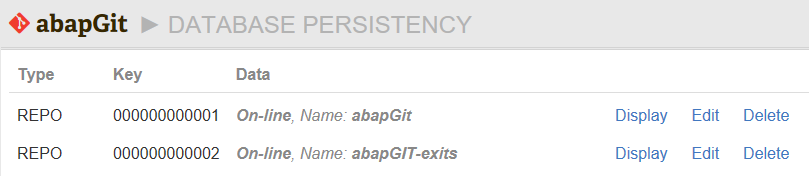
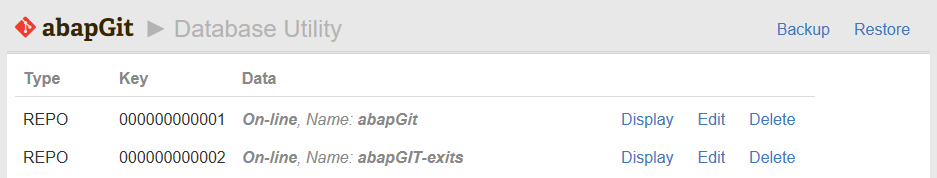
Update docs for DB Utility (#4457)
* Update docs for DB Utility

* Update

diff --git a/docs/ref-database-util.md b/docs/ref-database-util.md
@@ -1,10 +1,10 @@
 ---
-title: Database Util
+title: Database Utility
 category: reference
 order: 99
 ---
 
-`Database Util` is a tool for managing database entries created by abapGit. You can access the tool via the tools icon in the top right corner of the abapGit home page > choose first menu item `Database Util`.
+`Database Utility` is a tool for managing database entries created by abapGit. You can access the tool via the tools icon in the top right corner of the abapGit home page [](img/utilities.png). 
 
 It's possible to edit database entries of type
 
@@ -13,7 +13,7 @@ It's possible to edit database entries of type
 - `REPO`
 - `BACKGROUND`
 
-Be careful when you edit these entries from within abapGit. Corrupting the XML or setting invalid options might break your abapGit!
+Caution: Backup all abapGit database entries, first! Be careful when you edit these entries from within abapGit. Corrupting the XML or setting invalid options might break your abapGit!
 
 ![](img/db_util_1.png)
 
@@ -248,6 +248,13 @@ The respective XML file contains the method and optionally the credentials neede
 </asx:abap>
 ```
 
+## Backup & Restore
+
+You can backup the abapGit database entries using the menu. Entries are stored in a separate XML-file and combined into a single ZIP-archive named `abapGit_Backup_<date>_<time>.zip`. You can use this feature also to transfer all your settings to another system.
+
+Example:
+
+[](img/db_backup.png)
 
 ## Emergency Mode
 
@@ -264,3 +271,4 @@ How to start abapGit in "Emergency Mode":
 1. After exiting abapGit, go back to SU3 and remove parameter DBT
 
 ![](img/db_util_emergency_mode.png)
+
